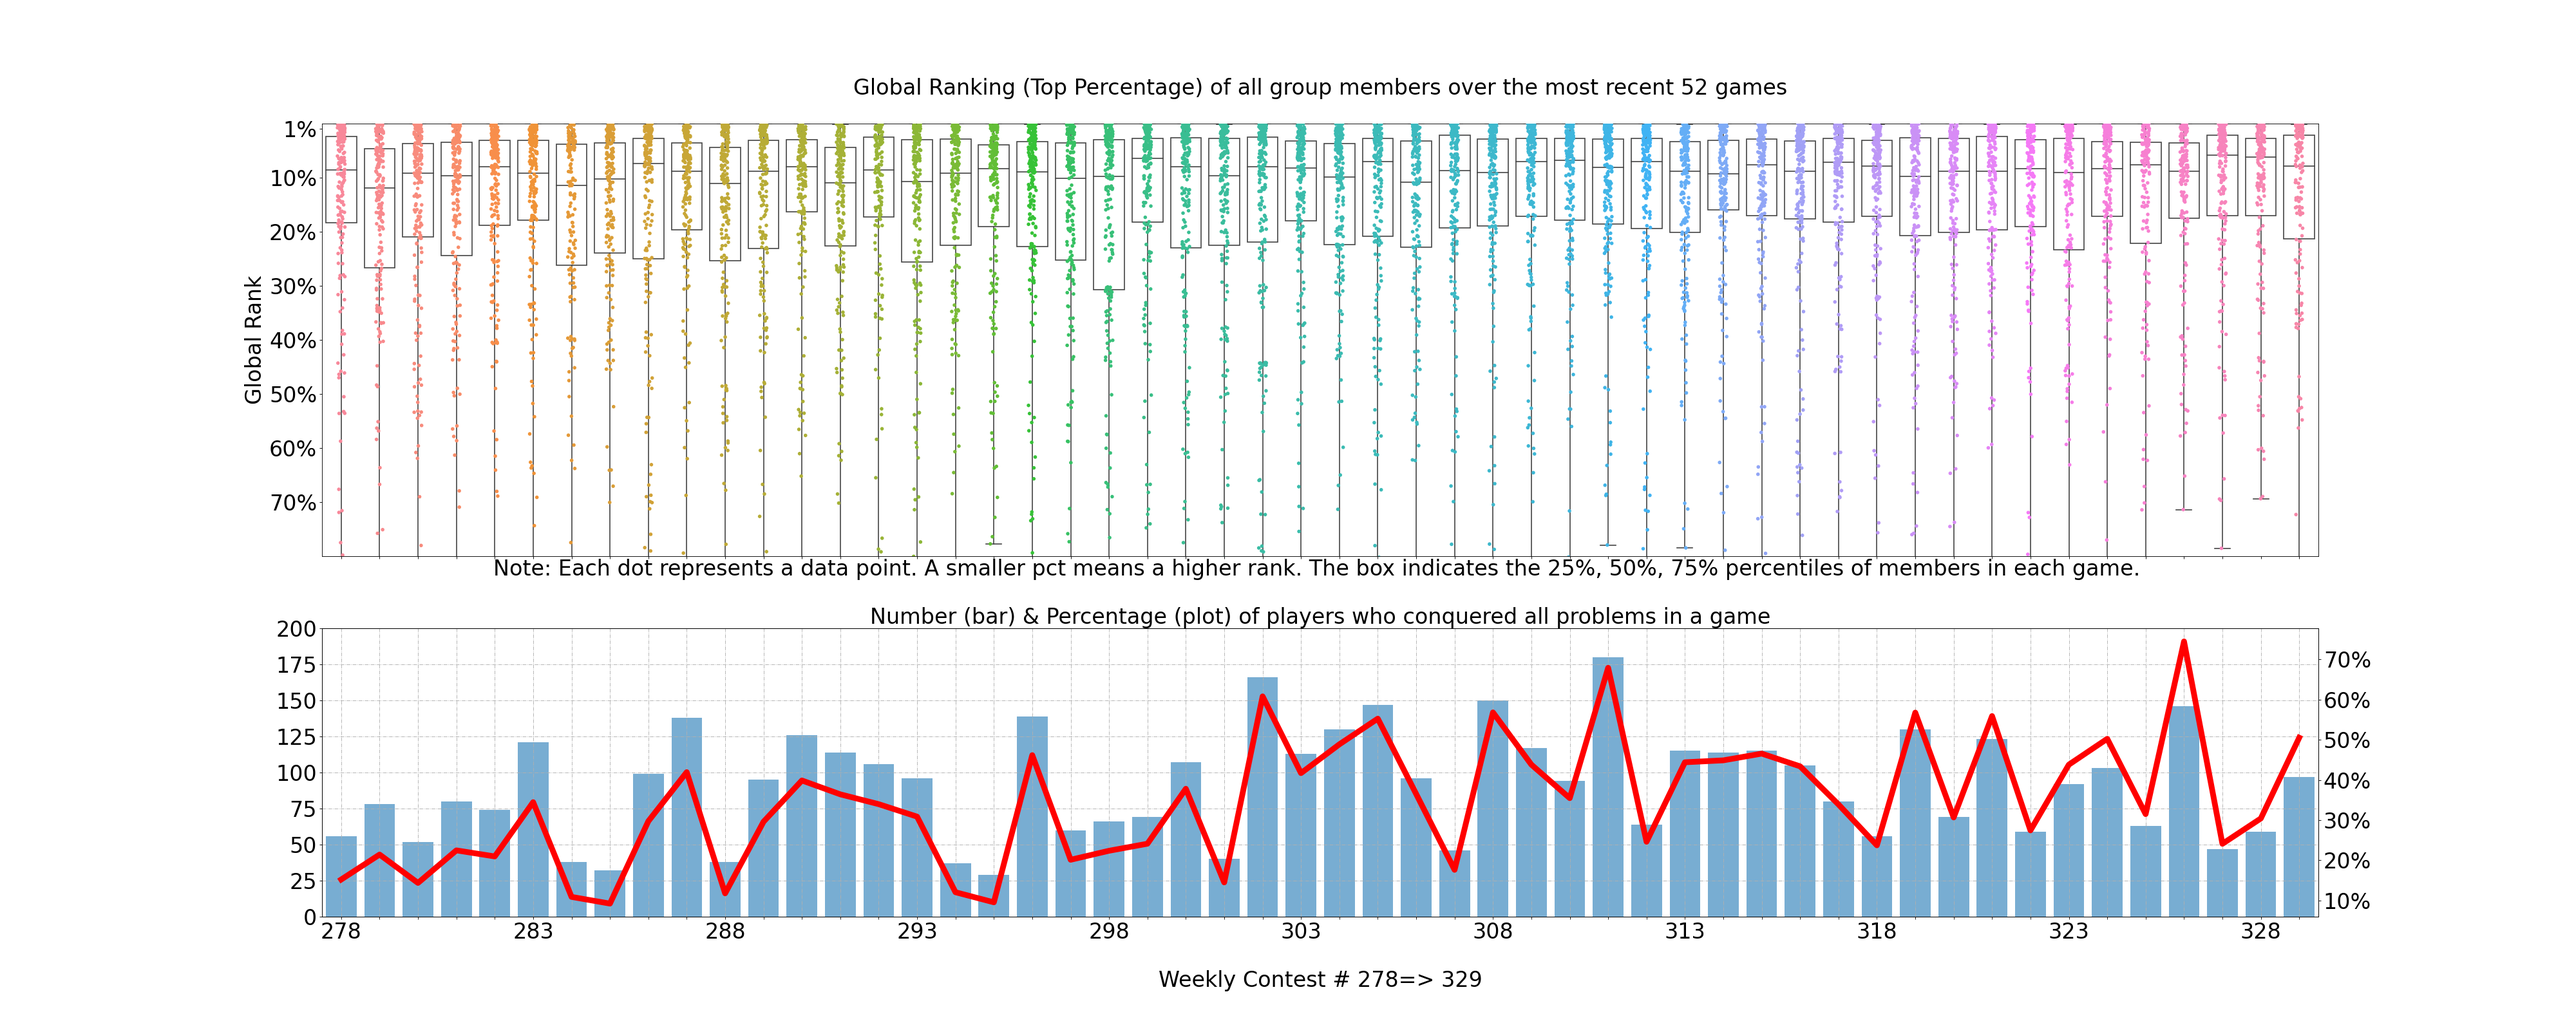
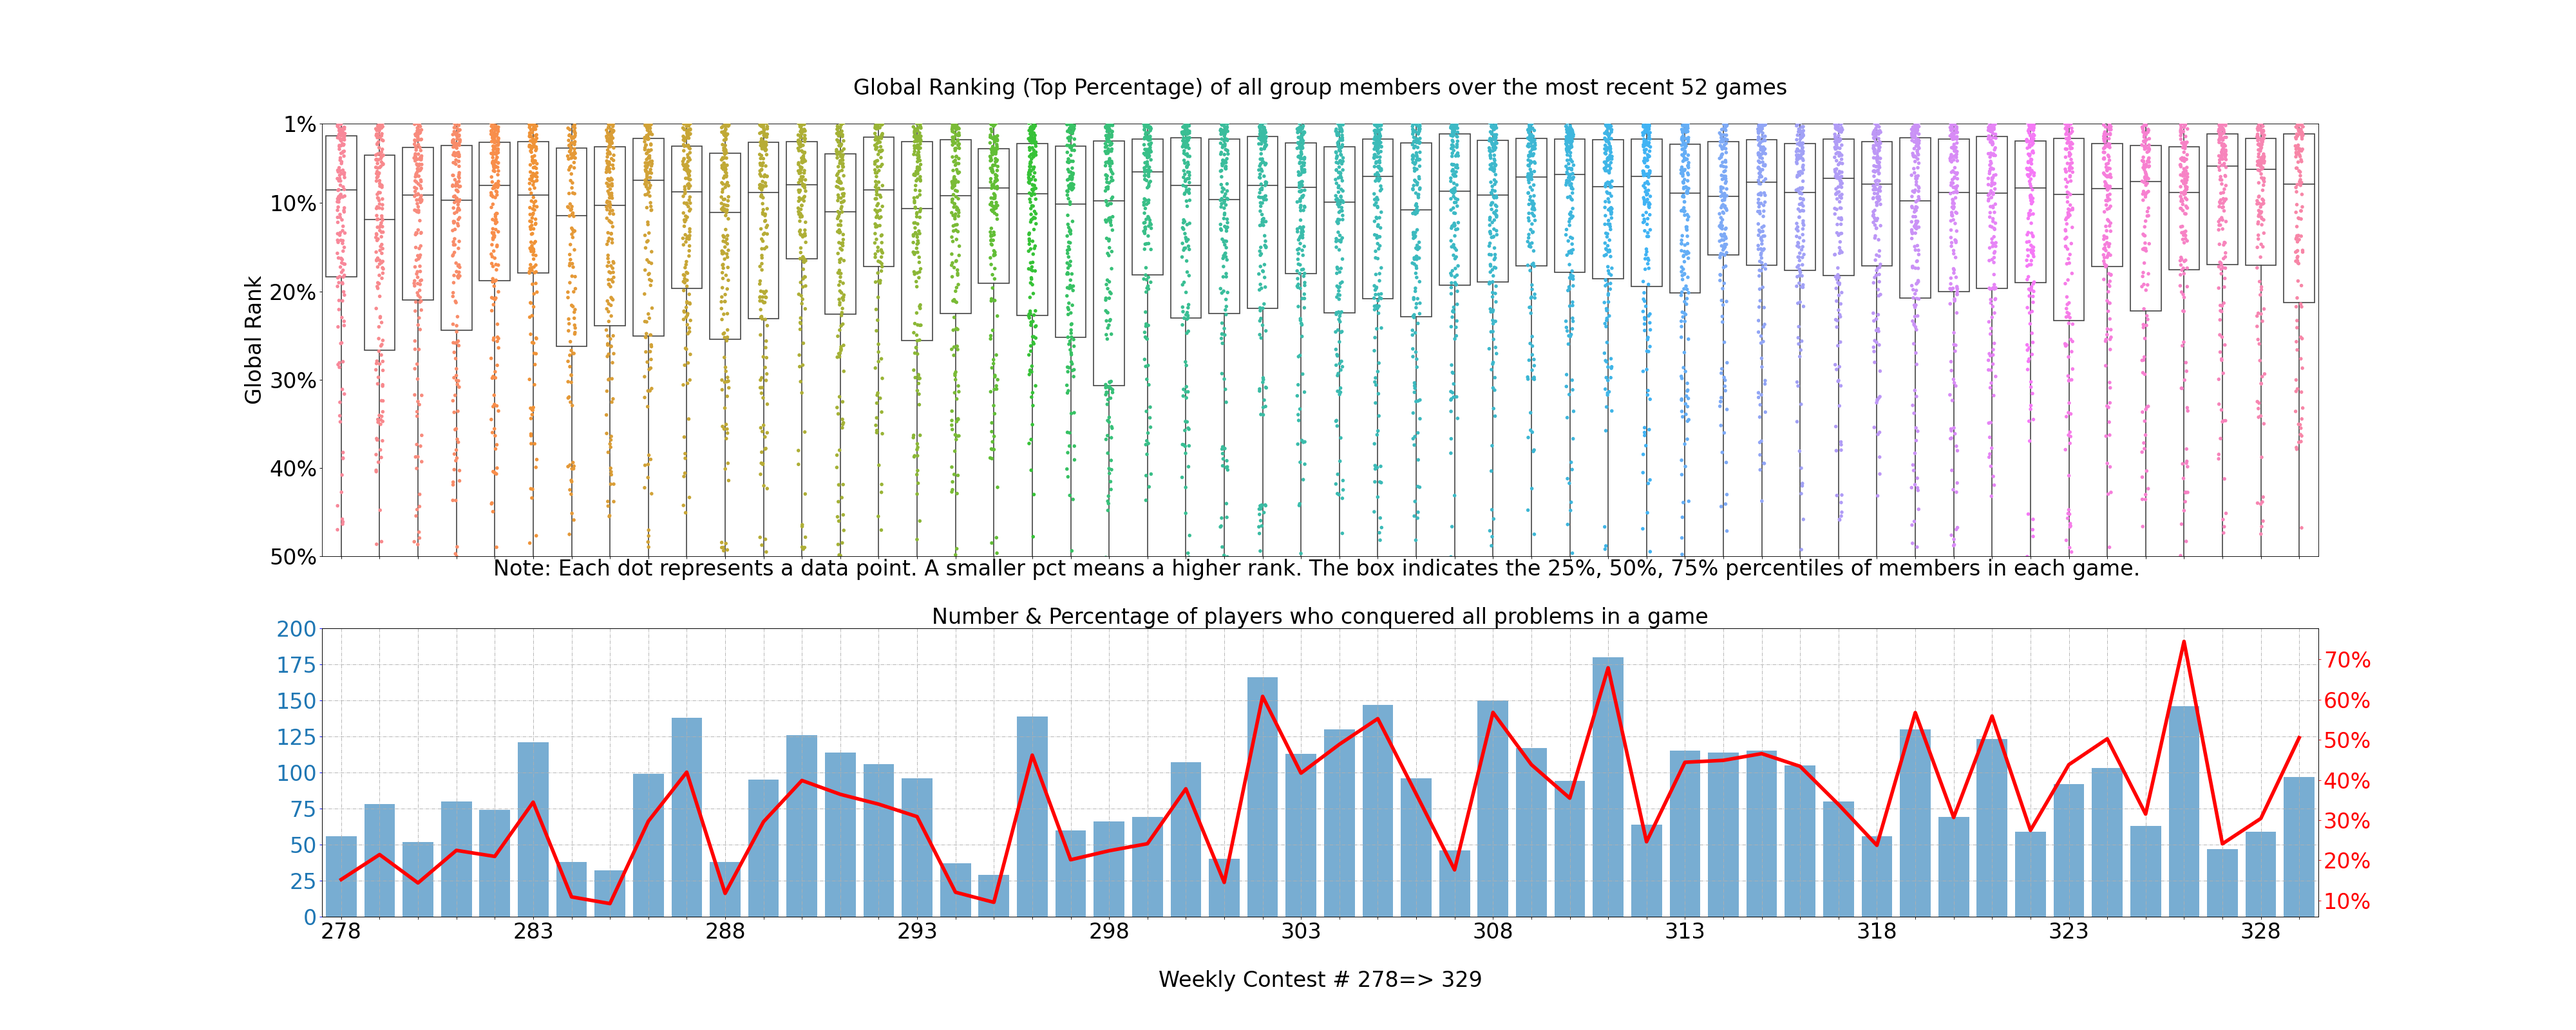
add ranking figure

diff --git a/getRank/PlotData.py b/getRank/PlotData.py
@@ -45,9 +45,10 @@ players = [0 for _ in range(firstContest, lastContest+1)]
 for user, v in contest_data.items():
     for contest_idx in range(firstContest,lastContest+1):
         if str(contest_idx) in contest_data[user] and contest_data[user][str(contest_idx)][0] > 0:
-            # score = (1 - contest_data[user][str(contest_idx)][0] / contest_meta[str(contest_idx)]) * 80 \
-            #         + contest_data[user][str(contest_idx)][1] * 5
-            score = contest_data[user][str(contest_idx)][0] / contest_meta[str(contest_idx)]
+            # score = contest_data[user][str(contest_idx)][0]
+			# score = (1 - contest_data[user][str(contest_idx)][0] / contest_meta[str(contest_idx)]) * 80 \
+			#          + contest_data[user][str(contest_idx)][1] * 5
+            score = contest_data[user][str(contest_idx)][0] / contest_meta[str(contest_idx)]			
             row_list.append((contest_idx, score))
             players[contest_idx-firstContest] += 1
 df = pd.DataFrame(index=np.arange(0,len(row_list)), columns=('week', 'score'))
@@ -64,18 +65,24 @@ ax.set_title('Global Ranking (Top Percentage) of all group members over the most
 ax.set_ylabel('Global Rank', fontsize=30)
 ax.set_xlabel("Note: Each dot represents a data point. A smaller pct means a higher rank. The box indicates the 25%, 50%, 75% percentiles of members in each game. ", fontsize=30)
 ax.yaxis.set_major_formatter(ticker.PercentFormatter(xmax=1, decimals=0))
-ax.yaxis.set_major_locator(FixedLocator([0.01, 0.1, 0.2, 0.3, 0.4, 0.5, 0.6, 0.7]))
-ax.set_ylim([0.8, 0])
+# ax.set_yscale("log")
+# ax.yaxis.set_major_locator(FixedLocator([1, 200, 500, 1000, 2000, 3000, 4000, 5000, 10000]))
+ax.yaxis.set_major_locator(FixedLocator([0.01, 0.1, 0.2, 0.3, 0.4, 0.5]))
+ax.set_ylim([0.5, 0.01])
+
 
 ax2.bar(list(range(0,52)), ak_by_contest, alpha=0.6)
 ax2.set_xlabel('\nWeekly Contest # '+str(firstContest)+'=> '+str(lastContest), fontsize=30)
-ax2.set_title('Number (bar) & Percentage (plot) of players who conquered all problems in a game', fontsize=30)
+ax2.set_title('Number & Percentage of players who conquered all problems in a game', fontsize=30)
 ax2.grid(linestyle='-.')
 ax2.set_ylim([0, 200])
+ax2.tick_params(axis='y', color = 'b', labelcolor = 'tab:blue')
 
 ax3 = ax2.twinx()
-ax3.plot(ak_by_pct, linewidth='8', color='r')
+ax3.plot(ak_by_pct, linewidth='5', color='r')
 ax3.yaxis.set_major_formatter(ticker.PercentFormatter(xmax=1, decimals=0))
+ax3.tick_params(axis='y', color = 'r', labelcolor = 'r')
+
 
 for item in (ax.get_xticklabels() + ax.get_yticklabels()):
     item.set_fontsize(30)
